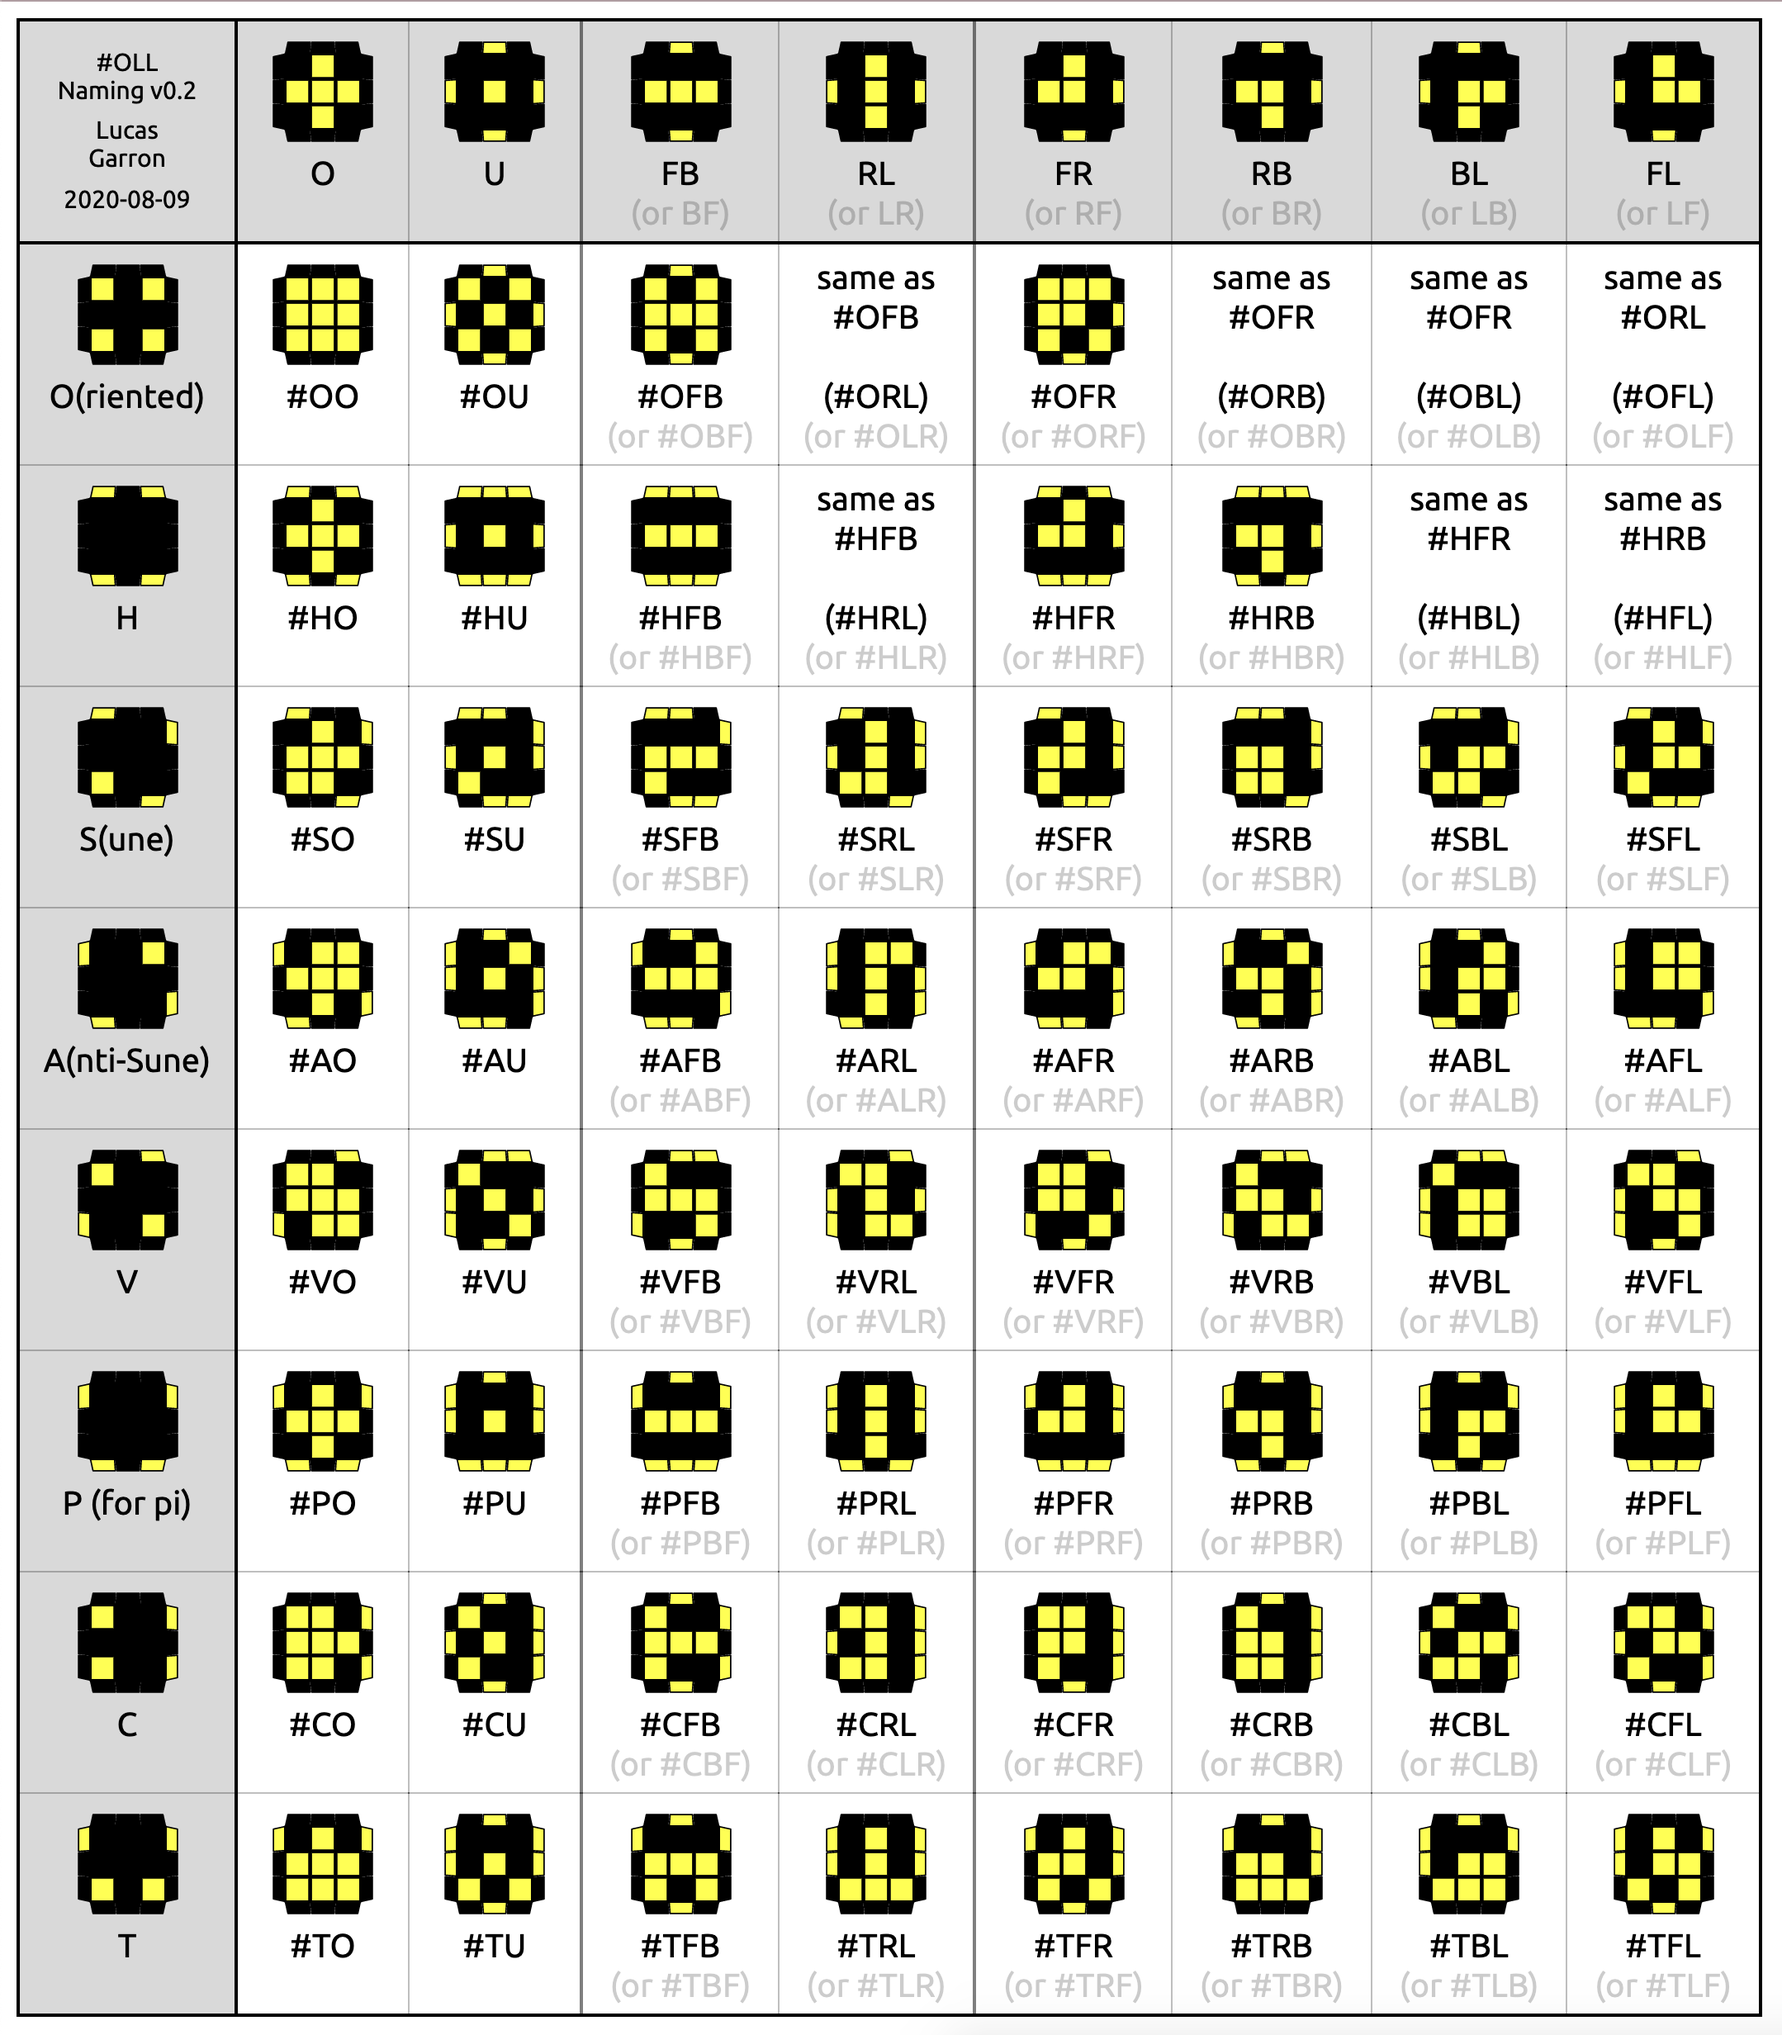
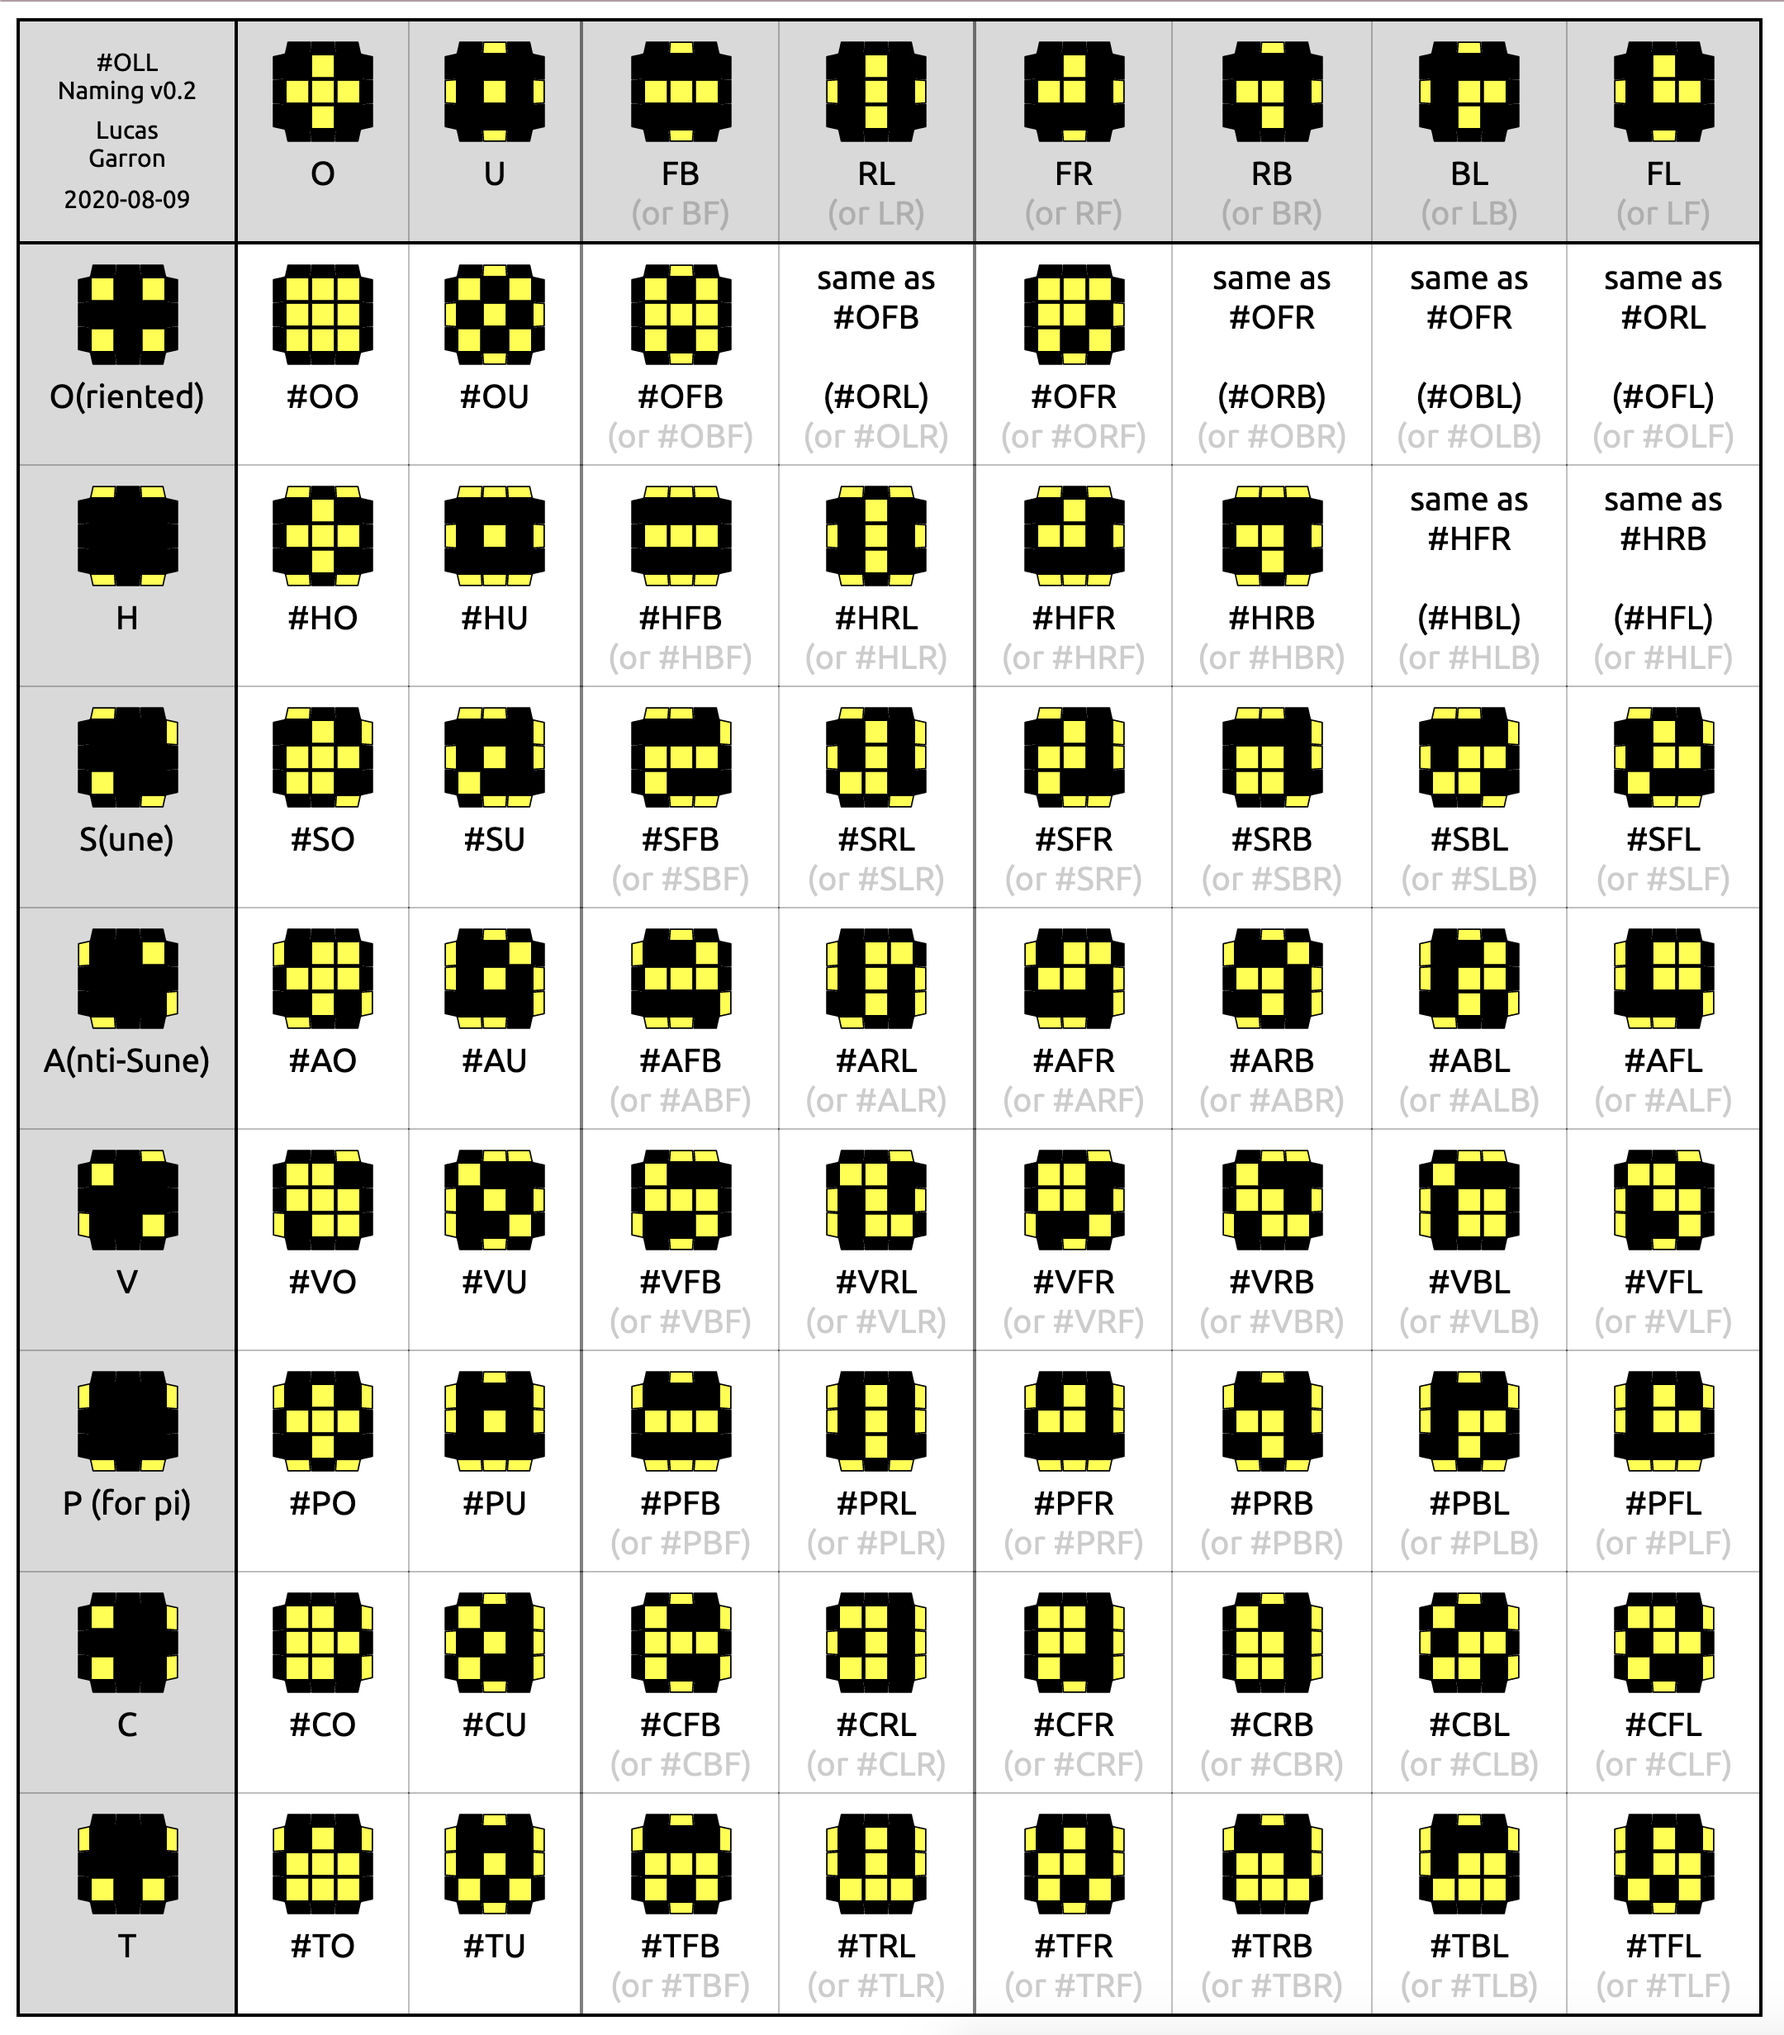
Fix incorrect #HRL duplicate.

diff --git a/src/index.ts b/src/index.ts
@@ -52,10 +52,6 @@ const canonicalizeIdx = [
     [1, 4],
   ],
   [
-    [2, 4],
-    [2, 3],
-  ],
-  [
     [2, 7],
     [2, 5],
   ],
